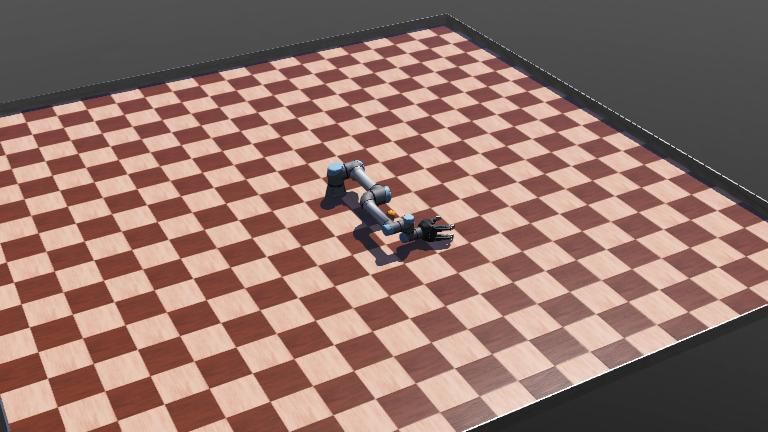
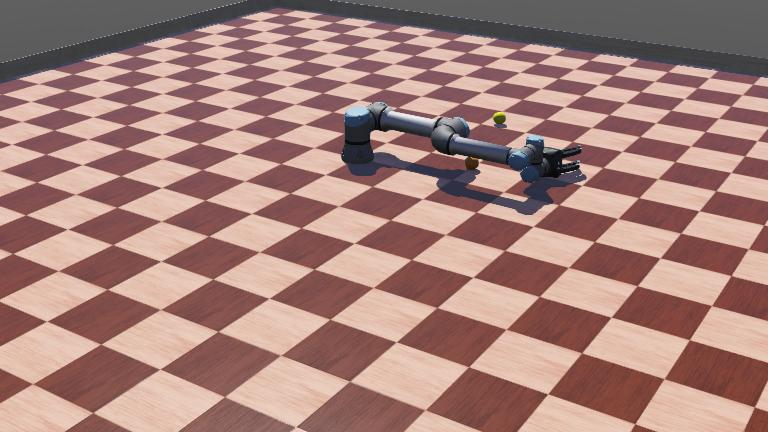
rotational search strategy

diff --git a/ur5eWorld_new/controllers/my_ur5eSimulationController/my_ur5eSimulationController.py b/ur5eWorld_new/controllers/my_ur5eSimulationController/my_ur5eSimulationController.py
@@ -53,8 +53,6 @@ class UR5e(Robot):
         # Initialize camera
         
         self.camera = self.getDevice('CAM')
-        self.distance_sensor = self.getDevice('DISTANCESENSOR')
-        self.distance_sensor.enable(TIME_STEP)
         self.camera.enable(TIME_STEP)
         self.height = self.camera.getHeight()
         self.width = self.camera.getWidth()
@@ -138,25 +136,48 @@ class UR5e(Robot):
         image = self.get_image() 
         if image is not None:        
             hsv_image = cv2.cvtColor(image, cv2.COLOR_BGR2HSV) 
-            lower_bound = np.array([5, 150, 50])
-            upper_bound = np.array([15, 255, 255])
+            lower_bound = np.array([20, 100, 200])
+            upper_bound = np.array([30, 255, 255])
             mask = cv2.inRange(hsv_image, lower_bound, upper_bound)
             contours, _ = cv2.findContours(mask, cv2.RETR_EXTERNAL, cv2.CHAIN_APPROX_SIMPLE)
-            #cv2.imshow('original image', image)
-            #cv2.waitKey(1000)
-            #cv2.destroyAllWindows()
+            cv2.imshow('original image', image)
+            cv2.waitKey(1000)
+            cv2.destroyAllWindows()
+            
             if contours:
-                print('Orange object found!')
+                print('yellow object found!')
             else:
-                print('No orange object found')
+                print('No yellow object found')
   
+        
+    #def spiral_search(self):
+    #print("performing spiral search...")
 
-                         
+
+    def rotation_search(self):
+        print("performing rotational search...")
+
+        target_joint_pos_left = [0, -1.57, 1.57, -1.57, -0.6, 0.0]
+        self.move_to_joint_pos(target_joint_pos_left)
+        self.object_detection()
+        sleep(1)
+        
+        target_joint_pos_right = [0, -1.57, 1.57, -1.57, -2.5, 0.0]
+        self.move_to_joint_pos(target_joint_pos_right)
+        sleep(1)
+        self.object_detection() 
+           
+        original_position = [0, -1.57, 1.57, -1.57, -1.57, 0.0]
+        self.move_to_joint_pos(original_position)
+    
+       
 if __name__ == '__main__':        
     robot = UR5e()
     robot.create_urdf('C:/Users/Nazrin/Webots_ur5eSimulation/UR5e_1.urdf')
     robot.move_to_joint_pos([0, -1.57, 1.57, -1.57, -1.57, 0.0])
-    robot.object_detection()   
+    #robot.spiral_search()
+    robot.rotation_search()
+    #robot.object_detection()  
     #robot.create_urdf('C:/Users/Nazrin/Webots_ur5eSimulation/UR5e_2.urdf') 
     robot.move_end_effector(0.5, 0.2, 0.0) 
     robot.grasp()
